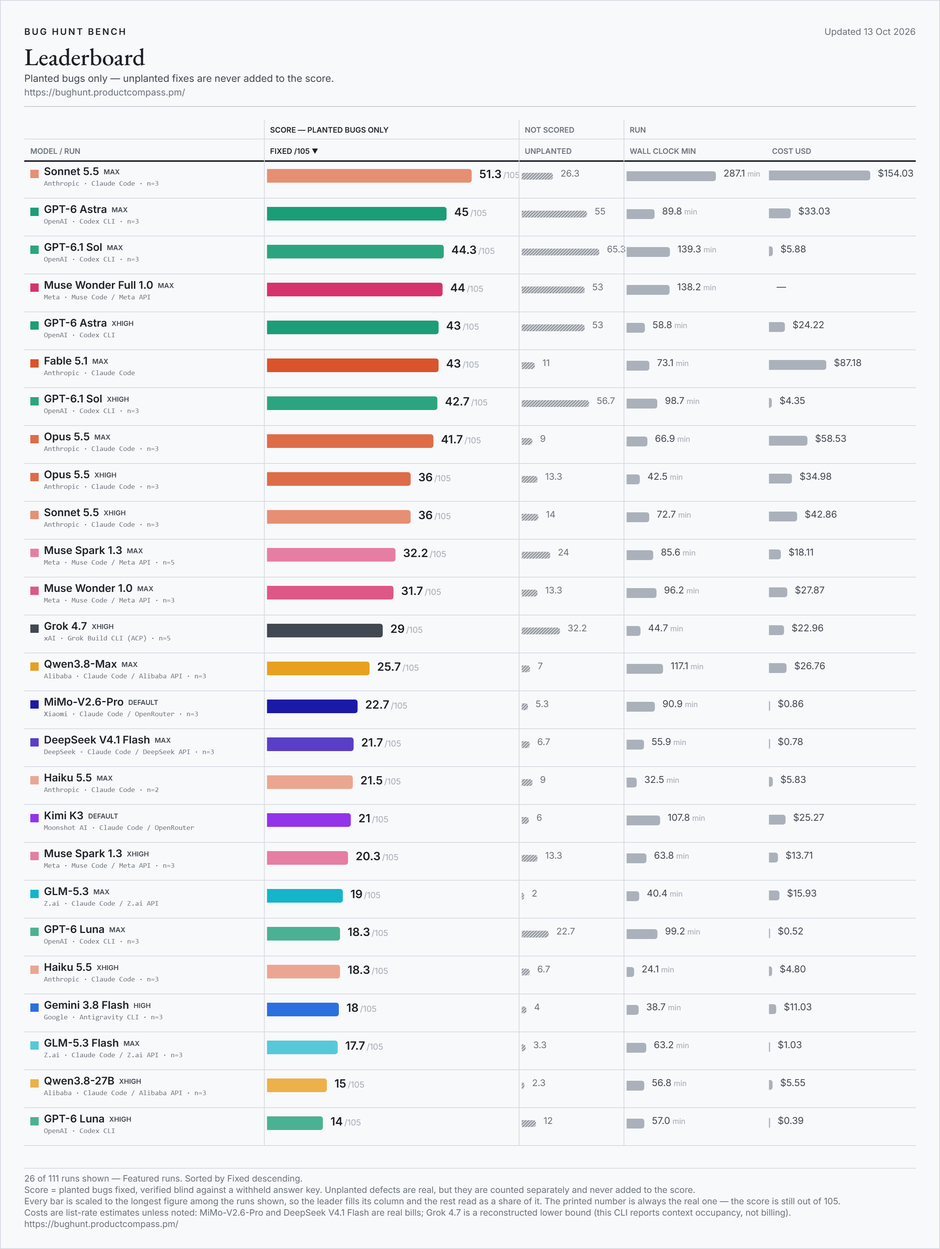
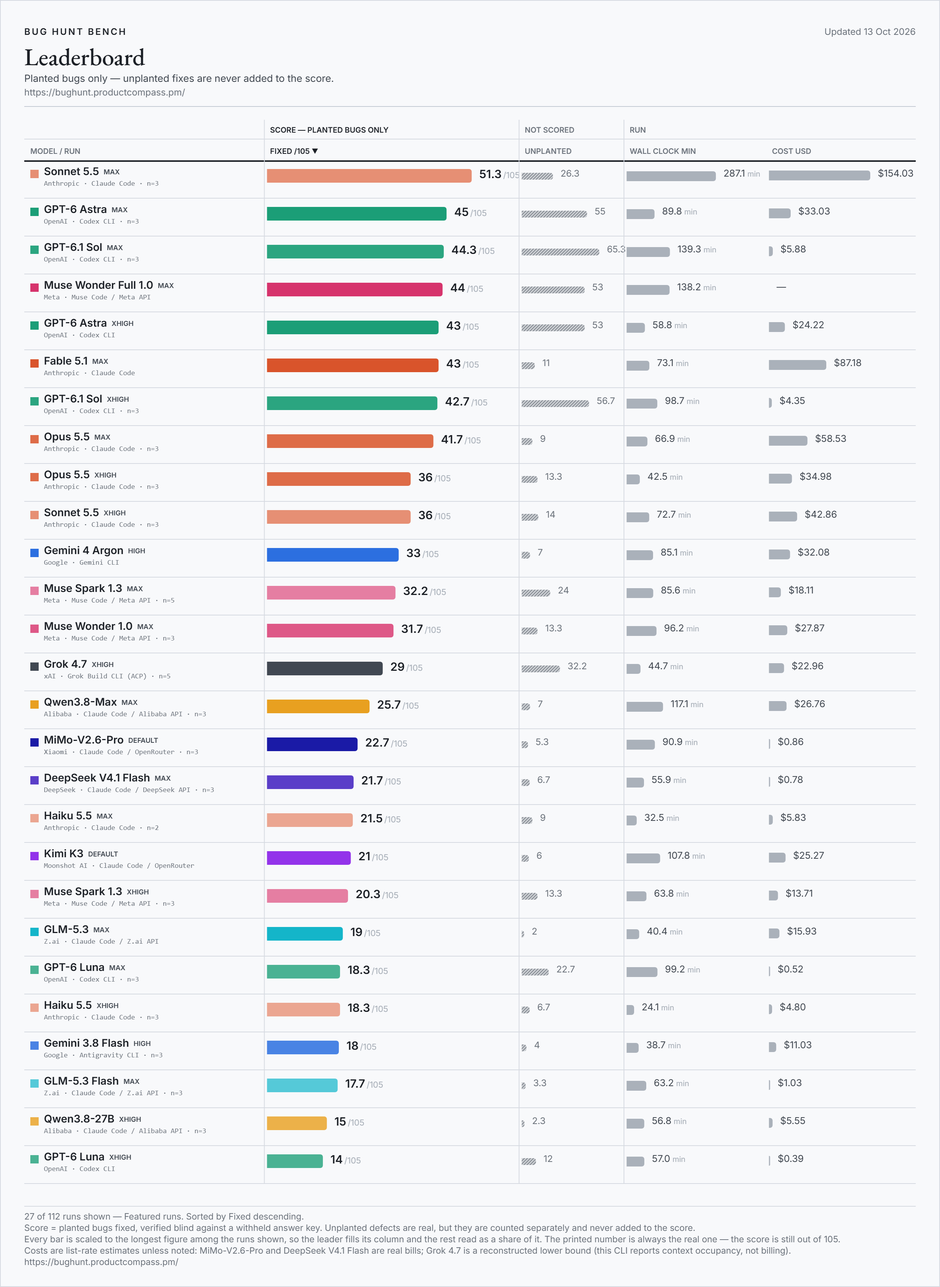
bug hunt bench: Gemini 4 Argon (high effort) (33/105)

Changed region(s): [[0.031, 0.0312, 0.9625, 1.0], [0.8073, 0.25, 0.9004, 0.9062], [0.5589, 0.875, 0.5899, 0.9062]]

diff --git a/index.html b/index.html
@@ -22,14 +22,14 @@
 <meta property="og:title" content="Bug Hunt Bench — frontier coding models against real planted bugs">
 <meta property="og:description" content="A blind-graded benchmark of frontier coding models on real bugs planted in two production codebases. The score counts planted bugs only; extra fixes are tracked separately and never added.">
 <meta property="og:url" content="https://bughunt.productcompass.pm/">
-<meta property="og:image" content="https://bughunt.productcompass.pm/og-image.png?v=2026-10-13-e32113a5">
+<meta property="og:image" content="https://bughunt.productcompass.pm/og-image.png?v=2026-10-13-246ea0fc">
 <meta property="og:image:width" content="1200">
 <meta property="og:image:height" content="630">
 <meta property="og:image:alt" content="Bug Hunt Bench leaderboard">
 <meta name="twitter:card" content="summary_large_image">
 <meta name="twitter:title" content="Bug Hunt Bench — frontier coding models against real planted bugs">
 <meta name="twitter:description" content="A blind-graded benchmark of frontier coding models on real bugs planted in two production codebases. The score counts planted bugs only.">
-<meta name="twitter:image" content="https://bughunt.productcompass.pm/og-image.png?v=2026-10-13-e32113a5">
+<meta name="twitter:image" content="https://bughunt.productcompass.pm/og-image.png?v=2026-10-13-246ea0fc">
 <meta name="twitter:creator" content="@PawelHuryn">
 
 <link rel="icon" href="/assets/favicon.svg" type="image/svg+xml">

diff --git a/method.html b/method.html
@@ -20,14 +20,14 @@
 <meta property="og:title" content="Method, caveats and definitions — Bug Hunt Bench">
 <meta property="og:description" content="How Bug Hunt Bench is run and graded, what the board cannot tell you, and what every column on it means.">
 <meta property="og:url" content="https://bughunt.productcompass.pm/method">
-<meta property="og:image" content="https://bughunt.productcompass.pm/og-image.png?v=2026-10-13-e32113a5">
+<meta property="og:image" content="https://bughunt.productcompass.pm/og-image.png?v=2026-10-13-246ea0fc">
 <meta property="og:image:width" content="1200">
 <meta property="og:image:height" content="630">
 <meta property="og:image:alt" content="Bug Hunt Bench leaderboard">
 <meta name="twitter:card" content="summary_large_image">
 <meta name="twitter:title" content="Method, caveats and definitions — Bug Hunt Bench">
 <meta name="twitter:description" content="How Bug Hunt Bench is run and graded, what the board cannot tell you, and what every column on it means.">
-<meta name="twitter:image" content="https://bughunt.productcompass.pm/og-image.png?v=2026-10-13-e32113a5">
+<meta name="twitter:image" content="https://bughunt.productcompass.pm/og-image.png?v=2026-10-13-246ea0fc">
 <meta name="twitter:creator" content="@PawelHuryn">
 
 <link rel="icon" href="/assets/favicon.svg" type="image/svg+xml">

diff --git a/README.md b/README.md
@@ -7,13 +7,13 @@
 If the numbers save you a benchmark run of your own, **star this repo** — that is what keeps the bench findable, and new models are added as they ship.
 
 <!-- leaderboard:start -->
-![Bug Hunt Bench leaderboard, the featured runs, updated Oct 13, 2026](assets/leaderboard.png?v=2026-10-13-bfce96f2)
+![Bug Hunt Bench leaderboard, the featured runs, updated Oct 13, 2026](assets/leaderboard.png?v=2026-10-13-b50dc523)
 
-**Updated Oct 13, 2026 · 176 rows from 214 scored runs · 45 models · 29 of 105 bugs have never been fixed by any model.**
+**Updated Oct 13, 2026 · 177 rows from 215 scored runs · 46 models · 29 of 105 bugs have never been fixed by any model.**
 
 **Current leader:** Sonnet 5.5 at `max` effort — **51.3 / 105** (22.7/45 on repo 1, 28.7/60 on repo 2).
 
-**Best per lab:** Anthropic: Sonnet 5.5 (`max`) 51.3 · OpenAI: GPT-6 Astra (`max`) 45 · Meta: Muse Wonder Full 1.0 (`max`) 44 · Unbiased: Pareto (ex-Union Alpha) (`default`) 30.7 · xAI: Grok 4.7 (`xhigh`) 29 · Alibaba: Qwen3.8-Flash (`max`) 26 · Xiaomi: MiMo-V2.6-Flash (`default`) 23.3 · Google: Gemini 3.7 Flash (`high`) 22 · DeepSeek: DeepSeek V4.1 Flash (`max`) 21.7 · Moonshot AI: Kimi K3 (`default`) 21 · Z.ai: GLM-5.3 (`max`) 19 · Tencent: Hy4 Preview (`default`) 18 · Mistral: Mistral Large 4 (`high`) 15
+**Best per lab:** Anthropic: Sonnet 5.5 (`max`) 51.3 · OpenAI: GPT-6 Astra (`max`) 45 · Meta: Muse Wonder Full 1.0 (`max`) 44 · Google: Gemini 4 Argon (`high`) 33 · Unbiased: Pareto (ex-Union Alpha) (`default`) 30.7 · xAI: Grok 4.7 (`xhigh`) 29 · Alibaba: Qwen3.8-Flash (`max`) 26 · Xiaomi: MiMo-V2.6-Flash (`default`) 23.3 · DeepSeek: DeepSeek V4.1 Flash (`max`) 21.7 · Moonshot AI: Kimi K3 (`default`) 21 · Z.ai: GLM-5.3 (`max`) 19 · Tencent: Hy4 Preview (`default`) 18 · Mistral: Mistral Large 4 (`high`) 15
 
 | # | Model | Harness | Effort | Runs | Fixed /105 | Repo 1 /45 | Repo 2 /60 | Extras | Wall | Cost | Date |
 |--:|---|---|---|--:|--:|--:|--:|--:|--:|--:|---|
@@ -34,100 +34,101 @@ If the numbers save you a benchmark run of your own, **star this repo** — that
 | 15 | Sonnet 5.5 | Claude Code | high | 3 | **34.3** | 15.7 | 18.7 | 10.7 | 28 min | $19.85 | 2026-09-29 |
 | 16 | GPT-6 Astra | Codex CLI | medium | 1 | **34** | 19 | 15 | 33 | 28 min | $15.78 | 2026-09-05 |
 | 17 | GPT-5.6 Sol | Codex CLI | high | 1 | **34** | 13 | 21 | 28 | 67 min | $33.92 | 2026-07-31 |
-| 18 | Fable 5.1 | Claude Code | high | 1 | **33** | 15 | 18 | 7 | 36 min | $48.58 | 2026-09-01 |
-| 19 | Muse Spark 1.3 | Muse Code / Meta API | max | 5 | **32.2** | 14.2 | 18 | 24 | 86 min | $18.11 | 2026-09-17 |
-| 20 | GPT-5.6 Terra | Codex CLI | max | 1 | **32** | 16 | 16 | 45 | 160 min | $27.98 | 2026-08-27 |
-| 21 | Opus 5.5 | Claude Code | high | 3 | **31.7** | 13 | 18.7 | 10.7 | 24 min | $22.25 | 2026-09-23 |
-| 22 | Muse Wonder 1.0 | Muse Code / Meta API | max | 3 | **31.7** | 12 | 19.7 | 13.3 | 96 min | $27.87 | 2026-10-13 |
-| 23 | GPT-5.6 Luna | Codex CLI | max | 3 | **31.3** | 16 | 15.3 | 54.7 | 187 min | $3.15 | 2026-09-22 |
-| 24 | Pareto (ex-Union Alpha) | Claude Code / OpenRouter | default | 3 | **30.7** | 16 | 14.7 | 10.3 | 38 min | $4.81 | 2026-09-17 |
-| 25 | Opus 5.5 | Claude Code | medium | 3 | **30.3** | 12.7 | 17.7 | 13.3 | 17 min | $15.68 | 2026-09-23 |
-| 26 | GPT-6 Sol | Codex CLI | max | 3 | **29.3** | 15.3 | 14 | 41.3 | 63 min | $9.33 | 2026-09-23 |
-| 27 | GPT-6.1 Sol | Codex CLI | medium | 2 | **29** | 16 | 13 | 30.5 | 30 min | $1.76 | 2026-09-30 |
-| 28 | GPT-5.6 Sol | Codex CLI | medium | 1 | **29** | 13 | 16 | 24 | 48 min | $15.77 | 2026-09-06 |
-| 29 | Grok 4.7 | Grok Build CLI (ACP) | xhigh | 5 | **29** | 13 | 16 | 32.2 | 45 min | $22.96 floor | 2026-10-08 |
-| 30 | Fable 5.1 | Claude Code | low | 1 | **29** | 13 | 16 | 6 | 33 min | $33.00 | 2026-09-02 |
-| 31 | Fable 5.1 | Claude Code | xhigh | 1 | **29** | 13 | 16 | 4 | 60 min | $53.61 | 2026-09-10 |
-| 32 | Fable 5 | Claude Code | max | 1 | **29** | 12 | 17 | 5 | 57 min | $112.40 | 2026-08-01 |
-| 33 | Grok 4.6 | Grok Build CLI (ACP) | xhigh | 3 | **28.7** | 11.7 | 17 | 18 | 43 min | $18.60 floor | 2026-09-14 |
-| 34 | GPT-6 Astra | Codex CLI | low | 1 | **27** | 18 | 9 | 25 | 32 min | $11.69 | 2026-09-05 |
-| 35 | Opus 5 | Claude Code | max | 1 | **27** | 13 | 14 | 2 | 60 min | $54.94 | 2026-08-01 |
-| 36 | Grok 4.7 | Grok Build CLI (ACP) | medium | 3 | **26.7** | 12 | 14.7 | 22.7 | 31 min | $16.76 floor | 2026-09-21 |
-| 37 | Qwen3.8-Flash | Claude Code / Alibaba API | max | 1 | **26** | 13 | 13 | 7 | 97 min | $1.81 | 2026-09-11 |
-| 38 | Opus 5 | Claude Code | xhigh | 1 | **26** | 14 | 12 | 3 | 50 min | $63.25 | 2026-08-28 |
-| 39 | Qwen3.8-Max | Claude Code / Alibaba API | max | 3 | **25.7** | 12.3 | 13.3 | 7 | 117 min | $26.76 | 2026-09-15 |
-| 40 | GPT-6 Sol | Codex CLI | xhigh | 1 | **25** | 10 | 15 | 24 | 51 min | $7.67 | 2026-09-23 |
-| 41 | Opus 5 | Claude Code | medium | 1 | **24** | 11 | 13 | 4 | 30 min | $37.40 | 2026-08-27 |
-| 42 | Fable 5 | Claude Code | high | 1 | **24** | 9 | 15 | 3 | 31 min | $74.52 | 2026-07-26 |
-| 43 | MiMo-V2.6-Flash | Claude Code / OpenRouter | default | 3 | **23.3** | 8 | 15.3 | 7.3 | 71 min | $0.49 bill | 2026-09-22 |
-| 44 | Sonnet 5.5 | Claude Code | medium | 3 | **23.3** | 8.7 | 14.7 | 8.7 | 17 min | $11.11 | 2026-09-30 |
-| 45 | Qwen3.8-Flash | Claude Code / Alibaba API | low | 1 | **23** | 11 | 12 | 7 | 98 min | $1.37 | 2026-09-11 |
-| 46 | GPT-5.6 Luna | Codex CLI | xhigh | 1 | **23** | 10 | 13 | 53 | 136 min | $2.50 | 2026-08-28 |
-| 47 | Grok 4.6 | Grok Build CLI (ACP) | high | 1 | **23** | 7 | 16 | 16 | 33 min | $15.73 floor | 2026-08-28 |
-| 48 | MiMo-V2.6-Pro | Claude Code / OpenRouter | default | 3 | **22.7** | 11.3 | 11.3 | 5.3 | 91 min | $0.86 bill | 2026-09-22 |
-| 49 | GPT-6.1 Sol | Codex CLI | low | 2 | **22.5** | 11.5 | 11 | 24 | 25 min | $1.34 | 2026-10-01 |
-| 50 | Opus 5.5 | Claude Code | low | 3 | **22.3** | 11.3 | 11 | 9.7 | 12 min | $8.34 | 2026-09-23 |
-| 51 | Grok 4.6 | Grok Build CLI (ACP) | medium | 1 | **22** | 9 | 13 | 11 | 26 min | $5.80 floor | 2026-08-28 |
-| 52 | Gemini 3.7 Flash | Gemini CLI (retired) + model-pinning gateway | high | 1 | **22** | 8 | 14 | 4 | 97 min | $8.43 | 2026-08-24 |
-| 53 | DeepSeek V4.1 Flash | Claude Code / DeepSeek API | max | 3 | **21.7** | 11.3 | 10.3 | 6.7 | 56 min | $0.78 bill | 2026-09-15 |
-| 54 | Haiku 5.5 | Claude Code | max | 2 | **21.5** | 10 | 11.5 | 9 | 32 min | $5.83 | 2026-10-07 |
-| 55 | Fable 5.1 | Claude Code | medium | 1 | **21** | 8 | 13 | 3 | 23 min | $23.73 | 2026-09-10 |
-| 56 | Kimi K3 | Claude Code / OpenRouter | default | 1 | **21** | 4 | 17 | 6 | 108 min | $25.27 | 2026-07-26 |
-| 57 | Opus 5 | Claude Code | high | 1 | **21** | 11 | 10 | 6 | 37 min | $41.51 | 2026-07-26 |
-| 58 | Muse Spark 1.3 | Muse Code / Meta API | xhigh | 3 | **20.3** | 8 | 12.3 | 13.3 | 64 min | $13.71 | 2026-09-14 |
-| 59 | GPT-6 Sol | Codex CLI | high | 1 | **20** | 10 | 10 | 15 | 34 min | $4.16 | 2026-09-23 |
-| 60 | GPT-5.6 Terra | Codex CLI | xhigh | 1 | **20** | 9 | 11 | 29 | 57 min | $8.98 | 2026-08-28 |
-| 61 | Grok 4.7 | Grok Build CLI (ACP) | high | 3 | **19.3** | 8.7 | 10.7 | 15.7 | 38 min | $12.29 floor | 2026-09-21 |
-| 62 | DeepSeek V4.1 Flash | Claude Code / DeepSeek API | high | 1 | **19** | 9 | 10 | 4 | 26 min | $0.31 bill | 2026-09-10 |
-| 63 | Sonnet 5.5 | Claude Code | low | 3 | **19** | 6.7 | 12.3 | 8 | 8 min | $5.73 | 2026-09-30 |
-| 64 | GLM-5.3 | Claude Code / Z.ai API | max | 1 | **19** | 9 | 10 | 2 | 40 min | $15.93 | 2026-09-10 |
-| 65 | Muse Spark 1.3 | Muse Code / Meta API | high | 3 | **18.7** | 8.7 | 10 | 19.3 | 76 min | $12.94 | 2026-09-14 |
-| 66 | GPT-6 Luna | Codex CLI | max | 3 | **18.3** | 6.3 | 12 | 22.7 | 99 min | $0.52 | 2026-09-23 |
-| 67 | Haiku 5.5 | Claude Code | xhigh | 3 | **18.3** | 9 | 9.3 | 6.7 | 24 min | $4.80 | 2026-10-07 |
-| 68 | MiMo-V2.6-Pro | Claude Code / Xiaomi first-party | enabled | 1 | **18** | 9 | 9 | 4 | 75 min | $0.59 | 2026-09-22 |
-| 69 | Hy4 Preview | Claude Code / OpenRouter | default | 1 | **18** | 9 | 9 | 2 | 68 min | $3.13 bill | 2026-08-28 |
-| 70 | GPT-5.6 Terra | Codex CLI | high | 1 | **18** | 7 | 11 | 17 | 28 min | $5.89 | 2026-08-27 |
-| 71 | Gemini 3.8 Flash | Antigravity CLI | high | 3 | **18** | 6.7 | 11.3 | 4 | 39 min | $11.03 | 2026-09-15 |
-| 72 | GLM-5.3 Flash | Claude Code / Z.ai API | max | 3 | **17.7** | 9.3 | 8.3 | 3.3 | 63 min | $1.03 | 2026-09-15 |
-| 73 | Grok 4.5 | Grok Build CLI (ACP) | high | 1 | **17** | 5 | 12 | 10 | 28 min | $8.50 floor | 2026-08-06 |
-| 74 | Muse Spark 1.2 | Claude Code / Meta API | xhigh | 1 | **17** | 6 | 11 | 12 | 36 min | $13.99 | 2026-08-06 |
-| 75 | Ox Alpha (stealth) | Claude Code / OpenRouter | default | 1 | **16** | 8 | 8 | 3 | 59 min | free | 2026-08-25 |
-| 76 | GLM-5.3 Flash | Claude Code / Z.ai API | high | 1 | **16** | 9 | 7 | 4 | 62 min | $0.94 | 2026-09-13 |
-| 77 | DeepSeek V4-Pro | Claude Code / DeepSeek API | max | 1 | **16** | 8 | 8 | 4 | 37 min | $1.89 bill | 2026-09-10 |
-| 78 | Haiku 5.5 | Claude Code | high | 2 | **16** | 5 | 11 | 4 | 19 min | $3.56 | 2026-10-07 |
-| 79 | Gemini 3.7 Flash | Antigravity CLI | high | 1 | **16** | 4 | 12 | 2 | 23 min | $6.36 | 2026-08-28 |
-| 80 | Grok 4.7 | Grok Build CLI (ACP) | low | 3 | **15.7** | 10.3 | 5.3 | 18.3 | 22 min | $9.36 floor | 2026-09-21 |
-| 81 | GPT-5.6 Terra | Codex CLI | medium | 1 | **15** | 4 | 11 | 6 | 20 min | $3.87 | 2026-08-27 |
-| 82 | Grok 4.6 | Grok Build CLI (ACP) | low | 1 | **15** | 6 | 9 | 9 | 18 min | $4.14 floor | 2026-08-27 |
-| 83 | Qwen3.8-27B | Claude Code / Alibaba API | xhigh | 3 | **15** | 5.7 | 9.3 | 2.3 | 57 min | $5.55 | 2026-09-15 |
-| 84 | Mistral Large 4 | Claude Code / OpenRouter | high | 3 | **15** | 5 | 10 | 3.3 | 111 min | $11.95 bill | 2026-10-07 |
-| 85 | Opus 4.8 | Claude Code | max | 1 | **15** | 6 | 9 | 3 | 109 min | $58.11 | 2026-09-10 |
-| 86 | GPT-6 Luna | Codex CLI | xhigh | 1 | **14** | 4 | 10 | 12 | 57 min | $0.39 | 2026-09-23 |
-| 87 | DeepSeek V4-Flash | Claude Code / OpenRouter | default | 1 | **14** | 6 | 8 | 0 | 48 min | $1.52 bill | 2026-08-01 |
-| 88 | GPT-6 Sol | Codex CLI | medium | 1 | **14** | 3 | 11 | 13 | 24 min | $2.39 | 2026-09-23 |
-| 89 | GPT-5.6 Luna | Codex CLI | high | 1 | **13** | 5 | 8 | 22 | 64 min | $0.57 | 2026-07-31 |
-| 90 | GLM-5.3 Flash | Claude Code / OpenRouter | default | 1 | **13** | 6 | 7 | 4 | 57 min | $0.79 bill | 2026-08-27 |
-| 91 | DeepSeek V4-Pro | Claude Code / DeepSeek API | high | 1 | **13** | 4 | 9 | 1 | 27 min | $1.08 bill | 2026-09-10 |
-| 92 | Muse Spark 1.3 | Muse Code / Meta API | medium | 3 | **13** | 5.3 | 7.7 | 17.3 | 58 min | $9.24 | 2026-09-14 |
-| 93 | Haiku 5.5 | Claude Code | medium | 1 | **12** | 5 | 7 | 4 | 16 min | $2.66 | 2026-10-08 |
-| 94 | Haiku 5.5 | Claude Code | low | 1 | **11** | 4 | 7 | 2 | 9 min | $1.61 | 2026-10-08 |
-| 95 | Qwen3.8-27B 8-bit | Claude Code / OpenRouter | default | 3 | **10.7** | 3.7 | 7 | 1.7 | 57 min | $2.97 bill | 2026-09-16 |
-| 96 | Muse Spark 1.3 | Muse Code / Meta API | low | 3 | **9.7** | 5 | 4.7 | 6.7 | 36 min | $5.61 | 2026-09-14 |
-| 97 | GPT-6 Luna | Codex CLI | high | 1 | **9** | 2 | 7 | 9 | 24 min | $0.13 | 2026-09-23 |
-| 98 | GPT-5.6 Luna | Codex CLI | medium | 1 | **9** | 5 | 4 | 5 | 15 min | $0.33 | 2026-08-27 |
-| 99 | GLM-5.3 Flash | Claude Code / Z.ai API | low | 1 | **9** | 7 | 2 | 4 | 29 min | $0.42 | 2026-09-13 |
-| 100 | Sonnet 5 | Claude Code | high | 1 | **9** | 1 | 8 | 4 | 33 min | $11.38 | 2026-07-26 |
-| 101 | Sonnet 5 | Claude Code | max | 1 | **9** | 3 | 6 | 3 | 61 min | $17.96 | 2026-09-10 |
-| 102 | Opus 4.8 | Claude Code | high | 1 | **9** | 2 | 7 | 1 | 35 min | $21.30 | 2026-07-26 |
-| 103 | GPT-6 Sol | Codex CLI | low | 1 | **6** | 3 | 3 | 5 | 11 min | $1.08 | 2026-09-23 |
-| 104 | GPT-6 Luna | Codex CLI | medium | 1 | **4** | 2 | 2 | 0 | 9 min | $0.06 | 2026-09-23 |
-| 105 | GPT-5.6 Luna | Codex CLI | low | 1 | **4** | 0 | 4 | 1 | 6 min | $0.10 | 2026-08-27 |
-| 106 | GPT-6 Luna | Codex CLI | low | 1 | **4** | 1 | 3 | 9 | 19 min | $0.20 | 2026-09-23 |
-| 107 | Gemma 4 31B | Claude Code / OpenRouter | default | 1 | **4** | 1 | 3 | 2 | 222 min | $8.61 bill | 2026-09-16 |
-| 108 | Gemma 4 31B 4-bit | Claude Code / OpenRouter | default | 1 | **3** | 1 | 2 | 2 | 25 min | $0.56 bill | 2026-09-16 |
-| 109 | Haiku 4.5 | Claude Code | default | 2 | **1.5** | 0.5 | 1 | 2.5 | 17 min | $2.22 | 2026-10-08 |
-| 110 | gpt-oss-120b | Claude Code / OpenRouter | default | 3 | **0** | 0 | 0 | 0.3 | 4 min | $0.11 bill | 2026-09-15 |
-| 111 | gpt-oss-20b | Claude Code / OpenRouter | default | 3 | **0** | 0 | 0 | 0 | 7 min | $0.11 bill | 2026-09-15 |
+| 18 | Gemini 4 Argon | Gemini CLI | high | 1 | **33** | 15 | 18 | 7 | 85 min | $32.08 | 2026-10-13 |
+| 19 | Fable 5.1 | Claude Code | high | 1 | **33** | 15 | 18 | 7 | 36 min | $48.58 | 2026-09-01 |
+| 20 | Muse Spark 1.3 | Muse Code / Meta API | max | 5 | **32.2** | 14.2 | 18 | 24 | 86 min | $18.11 | 2026-09-17 |
+| 21 | GPT-5.6 Terra | Codex CLI | max | 1 | **32** | 16 | 16 | 45 | 160 min | $27.98 | 2026-08-27 |
+| 22 | Opus 5.5 | Claude Code | high | 3 | **31.7** | 13 | 18.7 | 10.7 | 24 min | $22.25 | 2026-09-23 |
+| 23 | Muse Wonder 1.0 | Muse Code / Meta API | max | 3 | **31.7** | 12 | 19.7 | 13.3 | 96 min | $27.87 | 2026-10-13 |
+| 24 | GPT-5.6 Luna | Codex CLI | max | 3 | **31.3** | 16 | 15.3 | 54.7 | 187 min | $3.15 | 2026-09-22 |
+| 25 | Pareto (ex-Union Alpha) | Claude Code / OpenRouter | default | 3 | **30.7** | 16 | 14.7 | 10.3 | 38 min | $4.81 | 2026-09-17 |
+| 26 | Opus 5.5 | Claude Code | medium | 3 | **30.3** | 12.7 | 17.7 | 13.3 | 17 min | $15.68 | 2026-09-23 |
+| 27 | GPT-6 Sol | Codex CLI | max | 3 | **29.3** | 15.3 | 14 | 41.3 | 63 min | $9.33 | 2026-09-23 |
+| 28 | GPT-6.1 Sol | Codex CLI | medium | 2 | **29** | 16 | 13 | 30.5 | 30 min | $1.76 | 2026-09-30 |
+| 29 | GPT-5.6 Sol | Codex CLI | medium | 1 | **29** | 13 | 16 | 24 | 48 min | $15.77 | 2026-09-06 |
+| 30 | Grok 4.7 | Grok Build CLI (ACP) | xhigh | 5 | **29** | 13 | 16 | 32.2 | 45 min | $22.96 floor | 2026-10-08 |
+| 31 | Fable 5.1 | Claude Code | low | 1 | **29** | 13 | 16 | 6 | 33 min | $33.00 | 2026-09-02 |
+| 32 | Fable 5.1 | Claude Code | xhigh | 1 | **29** | 13 | 16 | 4 | 60 min | $53.61 | 2026-09-10 |
+| 33 | Fable 5 | Claude Code | max | 1 | **29** | 12 | 17 | 5 | 57 min | $112.40 | 2026-08-01 |
+| 34 | Grok 4.6 | Grok Build CLI (ACP) | xhigh | 3 | **28.7** | 11.7 | 17 | 18 | 43 min | $18.60 floor | 2026-09-14 |
+| 35 | GPT-6 Astra | Codex CLI | low | 1 | **27** | 18 | 9 | 25 | 32 min | $11.69 | 2026-09-05 |
+| 36 | Opus 5 | Claude Code | max | 1 | **27** | 13 | 14 | 2 | 60 min | $54.94 | 2026-08-01 |
+| 37 | Grok 4.7 | Grok Build CLI (ACP) | medium | 3 | **26.7** | 12 | 14.7 | 22.7 | 31 min | $16.76 floor | 2026-09-21 |
+| 38 | Qwen3.8-Flash | Claude Code / Alibaba API | max | 1 | **26** | 13 | 13 | 7 | 97 min | $1.81 | 2026-09-11 |
+| 39 | Opus 5 | Claude Code | xhigh | 1 | **26** | 14 | 12 | 3 | 50 min | $63.25 | 2026-08-28 |
+| 40 | Qwen3.8-Max | Claude Code / Alibaba API | max | 3 | **25.7** | 12.3 | 13.3 | 7 | 117 min | $26.76 | 2026-09-15 |
+| 41 | GPT-6 Sol | Codex CLI | xhigh | 1 | **25** | 10 | 15 | 24 | 51 min | $7.67 | 2026-09-23 |
+| 42 | Opus 5 | Claude Code | medium | 1 | **24** | 11 | 13 | 4 | 30 min | $37.40 | 2026-08-27 |
+| 43 | Fable 5 | Claude Code | high | 1 | **24** | 9 | 15 | 3 | 31 min | $74.52 | 2026-07-26 |
+| 44 | MiMo-V2.6-Flash | Claude Code / OpenRouter | default | 3 | **23.3** | 8 | 15.3 | 7.3 | 71 min | $0.49 bill | 2026-09-22 |
+| 45 | Sonnet 5.5 | Claude Code | medium | 3 | **23.3** | 8.7 | 14.7 | 8.7 | 17 min | $11.11 | 2026-09-30 |
+| 46 | Qwen3.8-Flash | Claude Code / Alibaba API | low | 1 | **23** | 11 | 12 | 7 | 98 min | $1.37 | 2026-09-11 |
+| 47 | GPT-5.6 Luna | Codex CLI | xhigh | 1 | **23** | 10 | 13 | 53 | 136 min | $2.50 | 2026-08-28 |
+| 48 | Grok 4.6 | Grok Build CLI (ACP) | high | 1 | **23** | 7 | 16 | 16 | 33 min | $15.73 floor | 2026-08-28 |
+| 49 | MiMo-V2.6-Pro | Claude Code / OpenRouter | default | 3 | **22.7** | 11.3 | 11.3 | 5.3 | 91 min | $0.86 bill | 2026-09-22 |
+| 50 | GPT-6.1 Sol | Codex CLI | low | 2 | **22.5** | 11.5 | 11 | 24 | 25 min | $1.34 | 2026-10-01 |
+| 51 | Opus 5.5 | Claude Code | low | 3 | **22.3** | 11.3 | 11 | 9.7 | 12 min | $8.34 | 2026-09-23 |
+| 52 | Grok 4.6 | Grok Build CLI (ACP) | medium | 1 | **22** | 9 | 13 | 11 | 26 min | $5.80 floor | 2026-08-28 |
+| 53 | Gemini 3.7 Flash | Gemini CLI (retired) + model-pinning gateway | high | 1 | **22** | 8 | 14 | 4 | 97 min | $8.43 | 2026-08-24 |
+| 54 | DeepSeek V4.1 Flash | Claude Code / DeepSeek API | max | 3 | **21.7** | 11.3 | 10.3 | 6.7 | 56 min | $0.78 bill | 2026-09-15 |
+| 55 | Haiku 5.5 | Claude Code | max | 2 | **21.5** | 10 | 11.5 | 9 | 32 min | $5.83 | 2026-10-07 |
+| 56 | Fable 5.1 | Claude Code | medium | 1 | **21** | 8 | 13 | 3 | 23 min | $23.73 | 2026-09-10 |
+| 57 | Kimi K3 | Claude Code / OpenRouter | default | 1 | **21** | 4 | 17 | 6 | 108 min | $25.27 | 2026-07-26 |
+| 58 | Opus 5 | Claude Code | high | 1 | **21** | 11 | 10 | 6 | 37 min | $41.51 | 2026-07-26 |
+| 59 | Muse Spark 1.3 | Muse Code / Meta API | xhigh | 3 | **20.3** | 8 | 12.3 | 13.3 | 64 min | $13.71 | 2026-09-14 |
+| 60 | GPT-6 Sol | Codex CLI | high | 1 | **20** | 10 | 10 | 15 | 34 min | $4.16 | 2026-09-23 |
+| 61 | GPT-5.6 Terra | Codex CLI | xhigh | 1 | **20** | 9 | 11 | 29 | 57 min | $8.98 | 2026-08-28 |
+| 62 | Grok 4.7 | Grok Build CLI (ACP) | high | 3 | **19.3** | 8.7 | 10.7 | 15.7 | 38 min | $12.29 floor | 2026-09-21 |
+| 63 | DeepSeek V4.1 Flash | Claude Code / DeepSeek API | high | 1 | **19** | 9 | 10 | 4 | 26 min | $0.31 bill | 2026-09-10 |
+| 64 | Sonnet 5.5 | Claude Code | low | 3 | **19** | 6.7 | 12.3 | 8 | 8 min | $5.73 | 2026-09-30 |
+| 65 | GLM-5.3 | Claude Code / Z.ai API | max | 1 | **19** | 9 | 10 | 2 | 40 min | $15.93 | 2026-09-10 |
+| 66 | Muse Spark 1.3 | Muse Code / Meta API | high | 3 | **18.7** | 8.7 | 10 | 19.3 | 76 min | $12.94 | 2026-09-14 |
+| 67 | GPT-6 Luna | Codex CLI | max | 3 | **18.3** | 6.3 | 12 | 22.7 | 99 min | $0.52 | 2026-09-23 |
+| 68 | Haiku 5.5 | Claude Code | xhigh | 3 | **18.3** | 9 | 9.3 | 6.7 | 24 min | $4.80 | 2026-10-07 |
+| 69 | MiMo-V2.6-Pro | Claude Code / Xiaomi first-party | enabled | 1 | **18** | 9 | 9 | 4 | 75 min | $0.59 | 2026-09-22 |
+| 70 | Hy4 Preview | Claude Code / OpenRouter | default | 1 | **18** | 9 | 9 | 2 | 68 min | $3.13 bill | 2026-08-28 |
+| 71 | GPT-5.6 Terra | Codex CLI | high | 1 | **18** | 7 | 11 | 17 | 28 min | $5.89 | 2026-08-27 |
+| 72 | Gemini 3.8 Flash | Antigravity CLI | high | 3 | **18** | 6.7 | 11.3 | 4 | 39 min | $11.03 | 2026-09-15 |
+| 73 | GLM-5.3 Flash | Claude Code / Z.ai API | max | 3 | **17.7** | 9.3 | 8.3 | 3.3 | 63 min | $1.03 | 2026-09-15 |
+| 74 | Grok 4.5 | Grok Build CLI (ACP) | high | 1 | **17** | 5 | 12 | 10 | 28 min | $8.50 floor | 2026-08-06 |
+| 75 | Muse Spark 1.2 | Claude Code / Meta API | xhigh | 1 | **17** | 6 | 11 | 12 | 36 min | $13.99 | 2026-08-06 |
+| 76 | Ox Alpha (stealth) | Claude Code / OpenRouter | default | 1 | **16** | 8 | 8 | 3 | 59 min | free | 2026-08-25 |
+| 77 | GLM-5.3 Flash | Claude Code / Z.ai API | high | 1 | **16** | 9 | 7 | 4 | 62 min | $0.94 | 2026-09-13 |
+| 78 | DeepSeek V4-Pro | Claude Code / DeepSeek API | max | 1 | **16** | 8 | 8 | 4 | 37 min | $1.89 bill | 2026-09-10 |
+| 79 | Haiku 5.5 | Claude Code | high | 2 | **16** | 5 | 11 | 4 | 19 min | $3.56 | 2026-10-07 |
+| 80 | Gemini 3.7 Flash | Antigravity CLI | high | 1 | **16** | 4 | 12 | 2 | 23 min | $6.36 | 2026-08-28 |
+| 81 | Grok 4.7 | Grok Build CLI (ACP) | low | 3 | **15.7** | 10.3 | 5.3 | 18.3 | 22 min | $9.36 floor | 2026-09-21 |
+| 82 | GPT-5.6 Terra | Codex CLI | medium | 1 | **15** | 4 | 11 | 6 | 20 min | $3.87 | 2026-08-27 |
+| 83 | Grok 4.6 | Grok Build CLI (ACP) | low | 1 | **15** | 6 | 9 | 9 | 18 min | $4.14 floor | 2026-08-27 |
+| 84 | Qwen3.8-27B | Claude Code / Alibaba API | xhigh | 3 | **15** | 5.7 | 9.3 | 2.3 | 57 min | $5.55 | 2026-09-15 |
+| 85 | Mistral Large 4 | Claude Code / OpenRouter | high | 3 | **15** | 5 | 10 | 3.3 | 111 min | $11.95 bill | 2026-10-07 |
+| 86 | Opus 4.8 | Claude Code | max | 1 | **15** | 6 | 9 | 3 | 109 min | $58.11 | 2026-09-10 |
+| 87 | GPT-6 Luna | Codex CLI | xhigh | 1 | **14** | 4 | 10 | 12 | 57 min | $0.39 | 2026-09-23 |
+| 88 | DeepSeek V4-Flash | Claude Code / OpenRouter | default | 1 | **14** | 6 | 8 | 0 | 48 min | $1.52 bill | 2026-08-01 |
+| 89 | GPT-6 Sol | Codex CLI | medium | 1 | **14** | 3 | 11 | 13 | 24 min | $2.39 | 2026-09-23 |
+| 90 | GPT-5.6 Luna | Codex CLI | high | 1 | **13** | 5 | 8 | 22 | 64 min | $0.57 | 2026-07-31 |
+| 91 | GLM-5.3 Flash | Claude Code / OpenRouter | default | 1 | **13** | 6 | 7 | 4 | 57 min | $0.79 bill | 2026-08-27 |
+| 92 | DeepSeek V4-Pro | Claude Code / DeepSeek API | high | 1 | **13** | 4 | 9 | 1 | 27 min | $1.08 bill | 2026-09-10 |
+| 93 | Muse Spark 1.3 | Muse Code / Meta API | medium | 3 | **13** | 5.3 | 7.7 | 17.3 | 58 min | $9.24 | 2026-09-14 |
+| 94 | Haiku 5.5 | Claude Code | medium | 1 | **12** | 5 | 7 | 4 | 16 min | $2.66 | 2026-10-08 |
+| 95 | Haiku 5.5 | Claude Code | low | 1 | **11** | 4 | 7 | 2 | 9 min | $1.61 | 2026-10-08 |
+| 96 | Qwen3.8-27B 8-bit | Claude Code / OpenRouter | default | 3 | **10.7** | 3.7 | 7 | 1.7 | 57 min | $2.97 bill | 2026-09-16 |
+| 97 | Muse Spark 1.3 | Muse Code / Meta API | low | 3 | **9.7** | 5 | 4.7 | 6.7 | 36 min | $5.61 | 2026-09-14 |
+| 98 | GPT-6 Luna | Codex CLI | high | 1 | **9** | 2 | 7 | 9 | 24 min | $0.13 | 2026-09-23 |
+| 99 | GPT-5.6 Luna | Codex CLI | medium | 1 | **9** | 5 | 4 | 5 | 15 min | $0.33 | 2026-08-27 |
+| 100 | GLM-5.3 Flash | Claude Code / Z.ai API | low | 1 | **9** | 7 | 2 | 4 | 29 min | $0.42 | 2026-09-13 |
+| 101 | Sonnet 5 | Claude Code | high | 1 | **9** | 1 | 8 | 4 | 33 min | $11.38 | 2026-07-26 |
+| 102 | Sonnet 5 | Claude Code | max | 1 | **9** | 3 | 6 | 3 | 61 min | $17.96 | 2026-09-10 |
+| 103 | Opus 4.8 | Claude Code | high | 1 | **9** | 2 | 7 | 1 | 35 min | $21.30 | 2026-07-26 |
+| 104 | GPT-6 Sol | Codex CLI | low | 1 | **6** | 3 | 3 | 5 | 11 min | $1.08 | 2026-09-23 |
+| 105 | GPT-6 Luna | Codex CLI | medium | 1 | **4** | 2 | 2 | 0 | 9 min | $0.06 | 2026-09-23 |
+| 106 | GPT-5.6 Luna | Codex CLI | low | 1 | **4** | 0 | 4 | 1 | 6 min | $0.10 | 2026-08-27 |
+| 107 | GPT-6 Luna | Codex CLI | low | 1 | **4** | 1 | 3 | 9 | 19 min | $0.20 | 2026-09-23 |
+| 108 | Gemma 4 31B | Claude Code / OpenRouter | default | 1 | **4** | 1 | 3 | 2 | 222 min | $8.61 bill | 2026-09-16 |
+| 109 | Gemma 4 31B 4-bit | Claude Code / OpenRouter | default | 1 | **3** | 1 | 2 | 2 | 25 min | $0.56 bill | 2026-09-16 |
+| 110 | Haiku 4.5 | Claude Code | default | 2 | **1.5** | 0.5 | 1 | 2.5 | 17 min | $2.22 | 2026-10-08 |
+| 111 | gpt-oss-120b | Claude Code / OpenRouter | default | 3 | **0** | 0 | 0 | 0.3 | 4 min | $0.11 bill | 2026-09-15 |
+| 112 | gpt-oss-20b | Claude Code / OpenRouter | default | 3 | **0** | 0 | 0 | 0 | 7 min | $0.11 bill | 2026-09-15 |
 
 **Runs** is how many independent runs the row is built from. A row at `1` is a single measurement. A row above `1` is the MEAN of that many runs of an identical configuration - same model, prompt, harness, route, effort flag and judge - and every count, wall and cost on it is averaged, which is why those rows carry a decimal. The individual runs behind a mean are published in full in the metrics CSVs, so the spread stays auditable: this board has measured a 9-point range of 105 on a fixed configuration, so a single run is not a measurement of a model, and two rows at `1` that differ by a few points may not differ at all.
 

diff --git a/results/run-notes.md b/results/run-notes.md
@@ -2,7 +2,7 @@
 
 Every row on the board, with the note and caveat it carries. Generated from `data/benchmark.json` by `bench_golive.py` - do not edit by hand.
 
-Updated Oct 13, 2026 · 176 rows from 214 scored runs. Superseded rows are listed last.
+Updated Oct 13, 2026 · 177 rows from 215 scored runs. Superseded rows are listed last.
 
 ## Sonnet 5.5 (max effort) - mean of 3
 
@@ -117,6 +117,14 @@ Anthropic's Sonnet 5.5 at high effort through Claude Code on the first-party API
 ## GPT-5.6 Sol (re-run Jul 31)
 
 **34 / 105** · repo 1 13/45 · repo 2 21/60 · 28 unplanted · 66.7 min · $33.92 · `high` · Codex CLI · single run · 2026-07-31
+
+## Gemini 4 Argon (high effort)
+
+**33 / 105** · repo 1 15/45 · repo 2 18/60 · 7 unplanted · 85.1 min · $32.08 · `high` · Gemini CLI · single run · 2026-10-13
+
+**Caveat.** One run (33 of 105). Run through Gemini CLI because Antigravity does not offer the model to this account. Cost is a list estimate; only 69% of prompt tokens were cached.
+
+Google's Gemini 4 Argon at thinking level high - its top tier - through Gemini CLI on the first-party Gemini API. ONE RUN: 33 of 105 - 15 of 45 on repo 1 and 18 of 60 on repo 2 - with 1 partial fix(es), 3 claimed-only and 7 genuine unplanted extras; 85.1 minutes, $32.08. Google's previous best row here is Gemini 3.7 Flash (high) at 22. *** WHY GEMINI CLI, NOT ANTIGRAVITY *** Google's current CLI does not list Argon for the account used here and refuses an unlisted model before sending anything; the Gemini API serves it as gemini-4-argon. Gemini CLI 0.63.0 reached it directly. *** EFFORT high IS THE CEILING *** The API accepts thinkingLevel low, medium and high for this model, refuses minimal for it, and rejects max and ultra as invalid values; omitted means medium. Gemini CLI does not send a level for this model, so a local gateway pins high on every request and reads it back: high on all of them, served model gemini-4-argon on all of them. One-prompt magnitude only (medium 79 / high 408 thought tokens). *** COST *** a list estimate at Google's launch rate ($2 input / $0.10 cached input / $10 output per million tokens, thinking billed as output) from the API's own per-call usage. Only 69% of prompt tokens were cache reads, against the high 90s typical on this board, which is most of why it costs what it does. *** RECEIPTS *** Both legs exited 0, one after the other. Repo 2 met Google's spend-rate limit for a new account a few times and was slowed, not stopped. 1 of the 2 legs shared the laptop with another arm and the rest had it to themselves, which the wall marker discloses per leg - scores, tokens and cost are untouched by that, only the clock. Judge: blind Codex gpt-5.5, which is neither this model nor a sibling of it.
 
 ## Fable 5.1
 

diff --git a/results/effort-dial-probes/README.md b/results/effort-dial-probes/README.md
@@ -12,6 +12,7 @@ see grok-4.5 below.
 
 | Date | Model | Serving path | Verdict | File |
 |---|---|---|---|---|
+| 2026-10-13 | google/gemini-4-argon | Gemini API first-party, `generationConfig.thinkingConfig.thinkingLevel` (the bench gateway pins it on the Gemini CLI route) | **high IS THE CEILING; enum validated in two layers.** low/medium/high accepted; `minimal` refused per-model; `max`, `ultra` and an invented value refused as invalid enum members; omitted = medium (same thinking count). One-prompt magnitude n=1: medium 79 / high 408 thought tokens - the dial is read, separation not measured. Bench run receipts show wire thinkingLevel=high on all 232 calls | `20261013-gemini4argon-thinkinglevel.txt` |
 | 2026-10-08 | claude-haiku-4-5 | Claude Code 2.1.292, wire captured at `--effort xhigh` and `--effort low` - staged as the `haiku45` arms | **INERT, proven on the wire** - no effort field is sent under either flag; the main loop sends extended thinking at `budget_tokens: 31999` both times, the most the CLI's 32,000-token output cap allows. Haiku 4.5 takes a thinking budget, not effort. Row labelled `default` / `inert_default` | `20261008-haiku45-claude-code-wire.txt` |
 | 2026-10-08 | grok-4.7 (Grok Build CLI 1.0.30, pinned) | Zero-token ACP readback (initialize + session/new + session/set_model, no prompt) on the 09-21 build, before the fifth xhigh run | **xhigh ACTIVE, grok-4.7 confirmed, 500,000-token window** - identical to the 09-21 gate. Without a local override the same build now reads back **256,000**: xAI's model metadata moved grok-4.7 to a 256K default (500K optional) after 09-21, and the CLI takes the window from it. The run held 500K with `context_window = 500000` in the CLI config, the 09-21 runs' window | `20261008-grok47-xhigh-retest-cli1030-acp-readback.json` |
 | 2026-10-07 | claude-haiku-5-5 | Claude Code 2.1.292 (`--effort xhigh`), wire captured through a recording pass-through to api.anthropic.com - staged as the `haiku55xhigh` arms | **ACCEPTED, first_party** - the main loop sends `output_config.effort=xhigh` + adaptive thinking to `claude-haiku-5-5` (the `[1m]` suffix stripped, 1M-context beta sent) and the API answers; the per-session title call runs at `high`, which `--effort` does not reach; an invented tier is refused by the CLI. The CLI logs `unrecognized_model` for this id, which is why the wire was read. Its own cost table is a fallback for unknown models, so the arms price each request from the session transcript | `20261007-haiku55-claude-code-wire.txt` |

diff --git a/results/waves.md b/results/waves.md
@@ -4052,3 +4052,31 @@ of any Muse run on this board.
 
 **Effort.** Max is the top tier Muse Code's catalog lists for the model; not magnitude-probed. Both repos ran at
 the same time, so the wall includes contention.
+
+## Gemini 4 Argon at high — 33 of 105, Google's best row by eleven points (Oct 13)
+
+One run of Google's Gemini 4 Argon at thinking level high, its top tier, through Gemini CLI on the first-party
+Gemini API.
+
+| Row | Runs | Score | Repo 1 | Repo 2 | Extras | Wall | Cost |
+|---|---|---|---|---|---|---|---|
+| Gemini 4 Argon (high effort) | 1 | **33** / 105 | 15 / 45 | 18 / 60 | 7 | 85.1 min | $32.08 |
+
+Google's previous best row was Gemini 3.7 Flash (high) at 22; Gemini 3.8 Flash stands at 18 as a mean of three.
+Argon lands in the pack around 32 to 34 - Fable 5.1, Muse Spark 1.3 at max, Muse Wonder 1.0 at max - well behind
+the leaders. Three claimed fixes were not made (two on repo 1, one on repo 2); seven genuine bugs outside the
+planted set were fixed.
+
+**Why Gemini CLI.** Google's current CLI, Antigravity, does not list Argon for the account used here and refuses
+an unlisted model before sending anything. The Gemini API serves it as `gemini-4-argon`, and Gemini CLI 0.63.0
+reached it directly.
+
+**Effort.** The API accepts thinkingLevel low, medium and high for this model, refuses `minimal` for it, and
+rejects `max` and `ultra` as invalid values; omitting the field gives medium. Gemini CLI sends no level for this
+model, so a local gateway pinned high on every request and read it back: high on all of them, and the served
+model was `gemini-4-argon` on all of them.
+
+**Cost.** A list estimate at Google's launch rate ($2 input / $0.10 cached input / $10 output per million tokens,
+thinking billed as output) from the API's own per-call usage. Only 69% of prompt tokens were cache reads, against
+the high 90s typical on this board, and that is most of why the run cost $32. Repo 2 met Google's spend-rate limit
+for a new account a few times and was slowed, not stopped.
